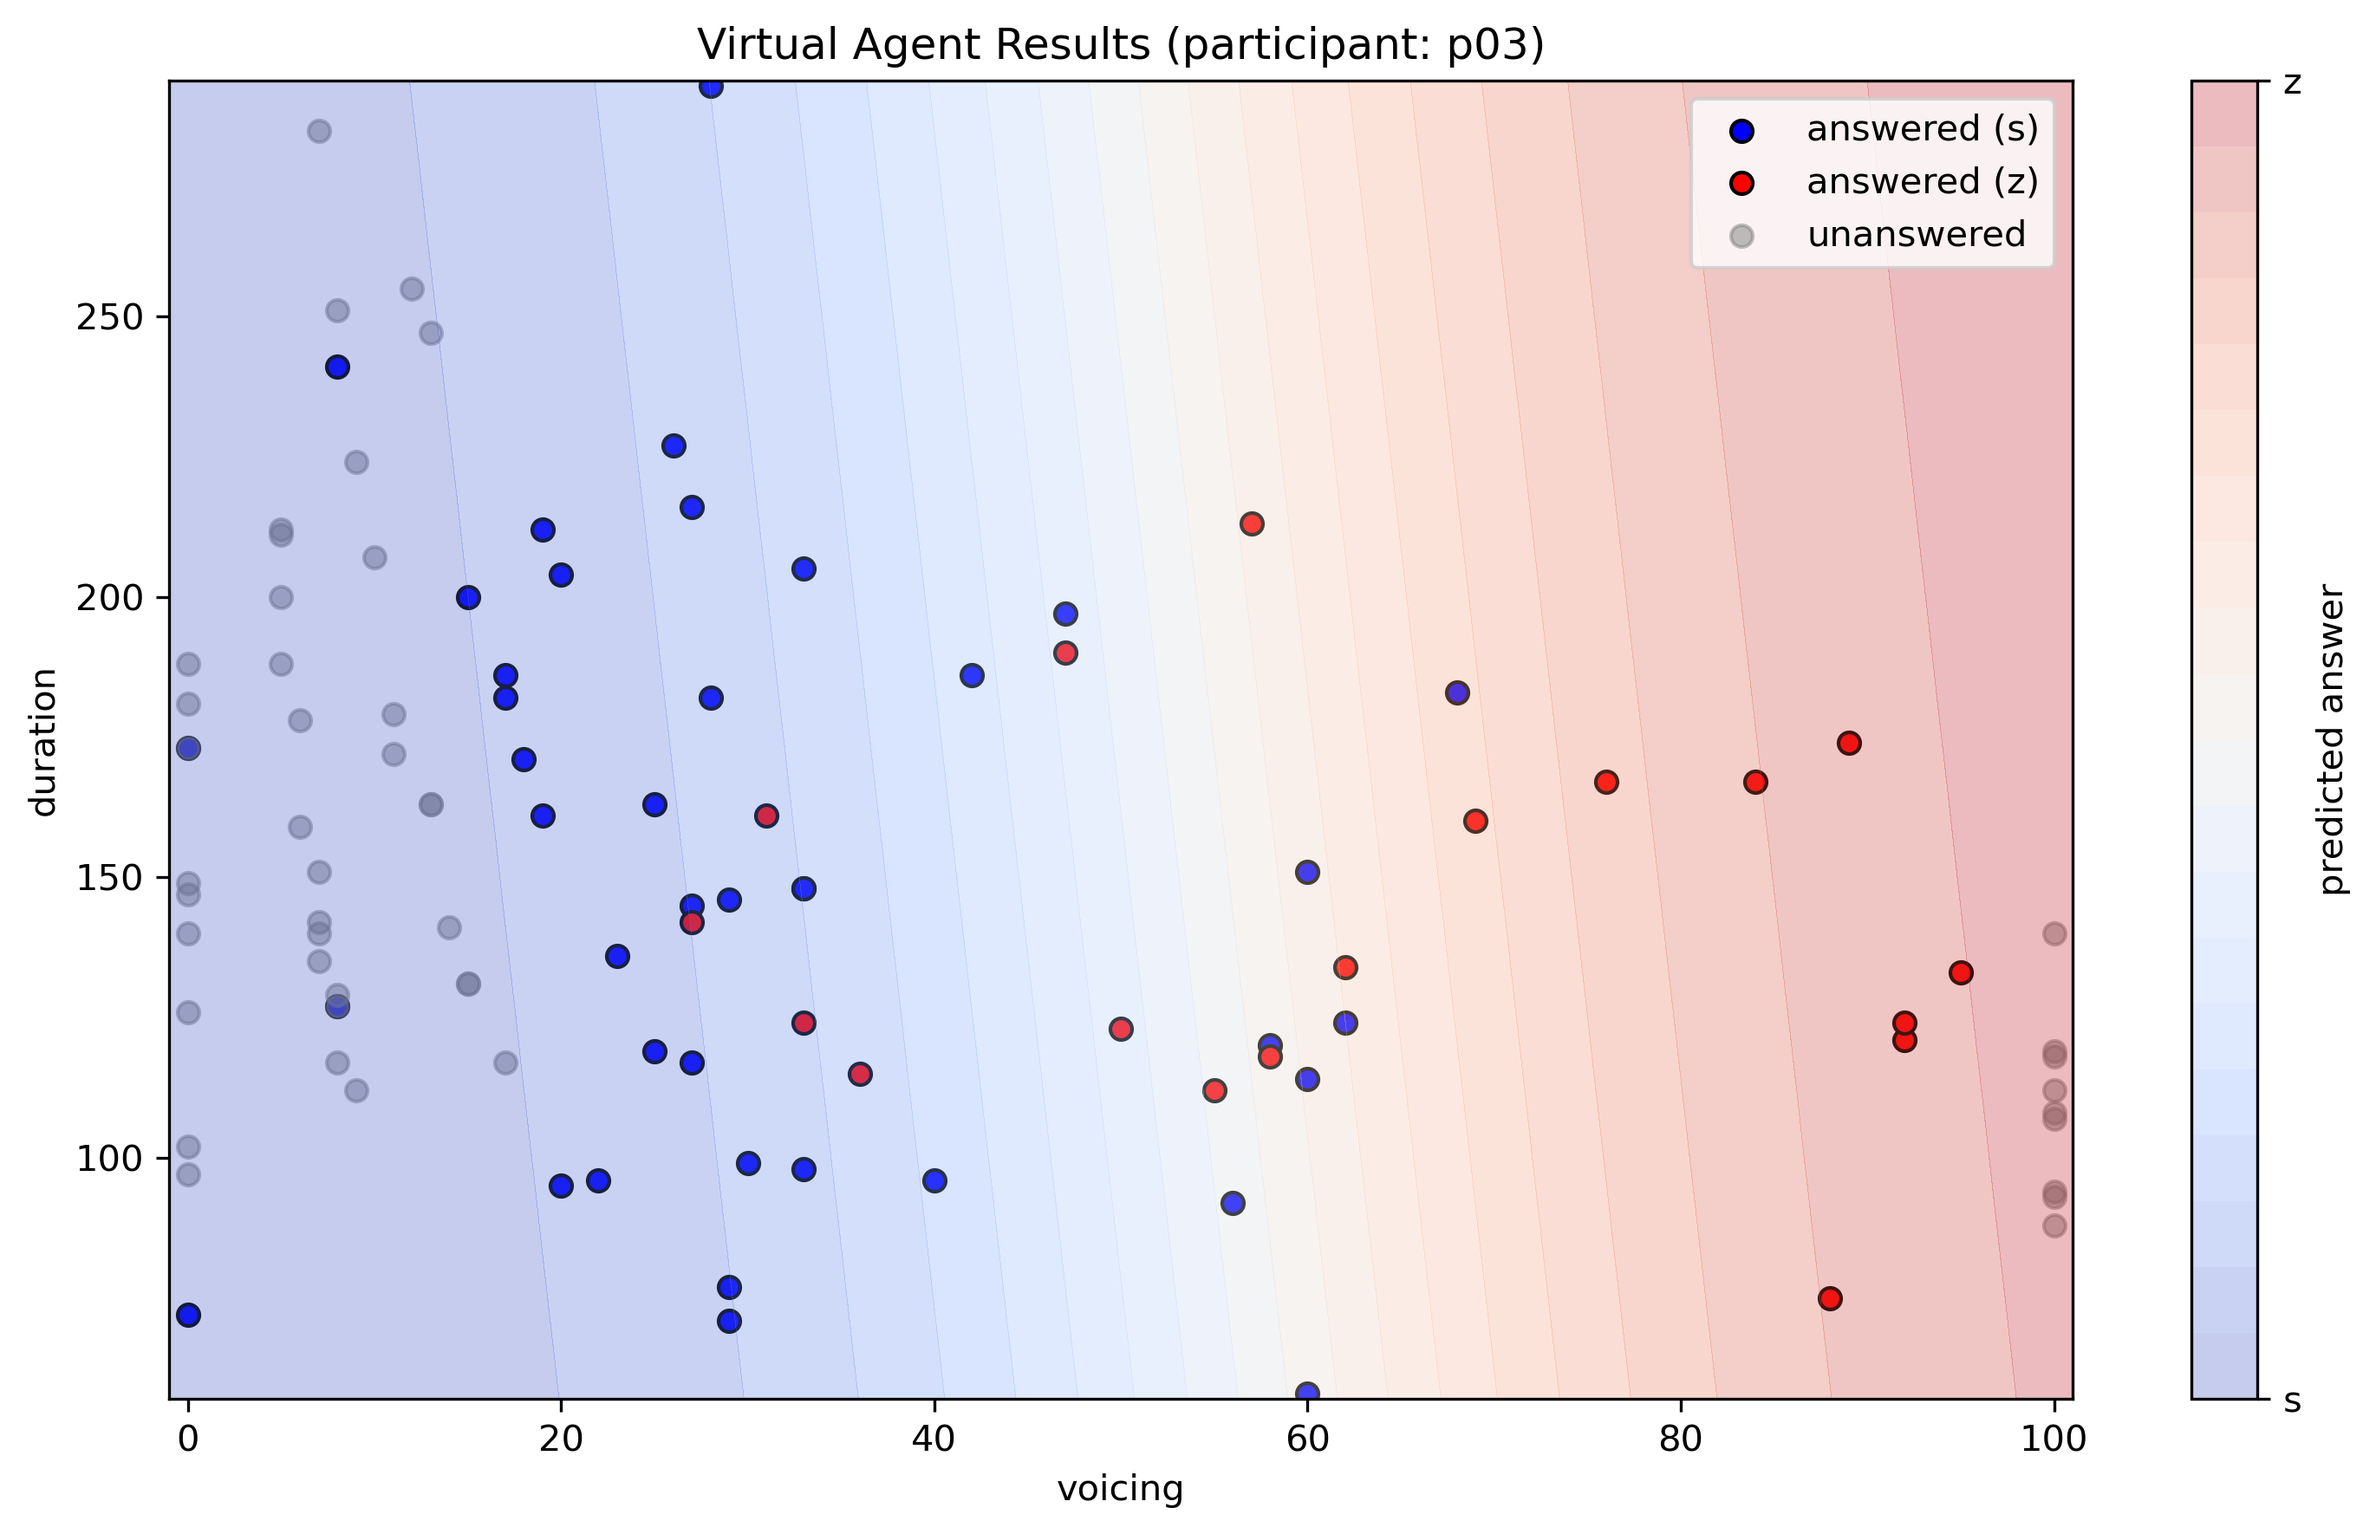
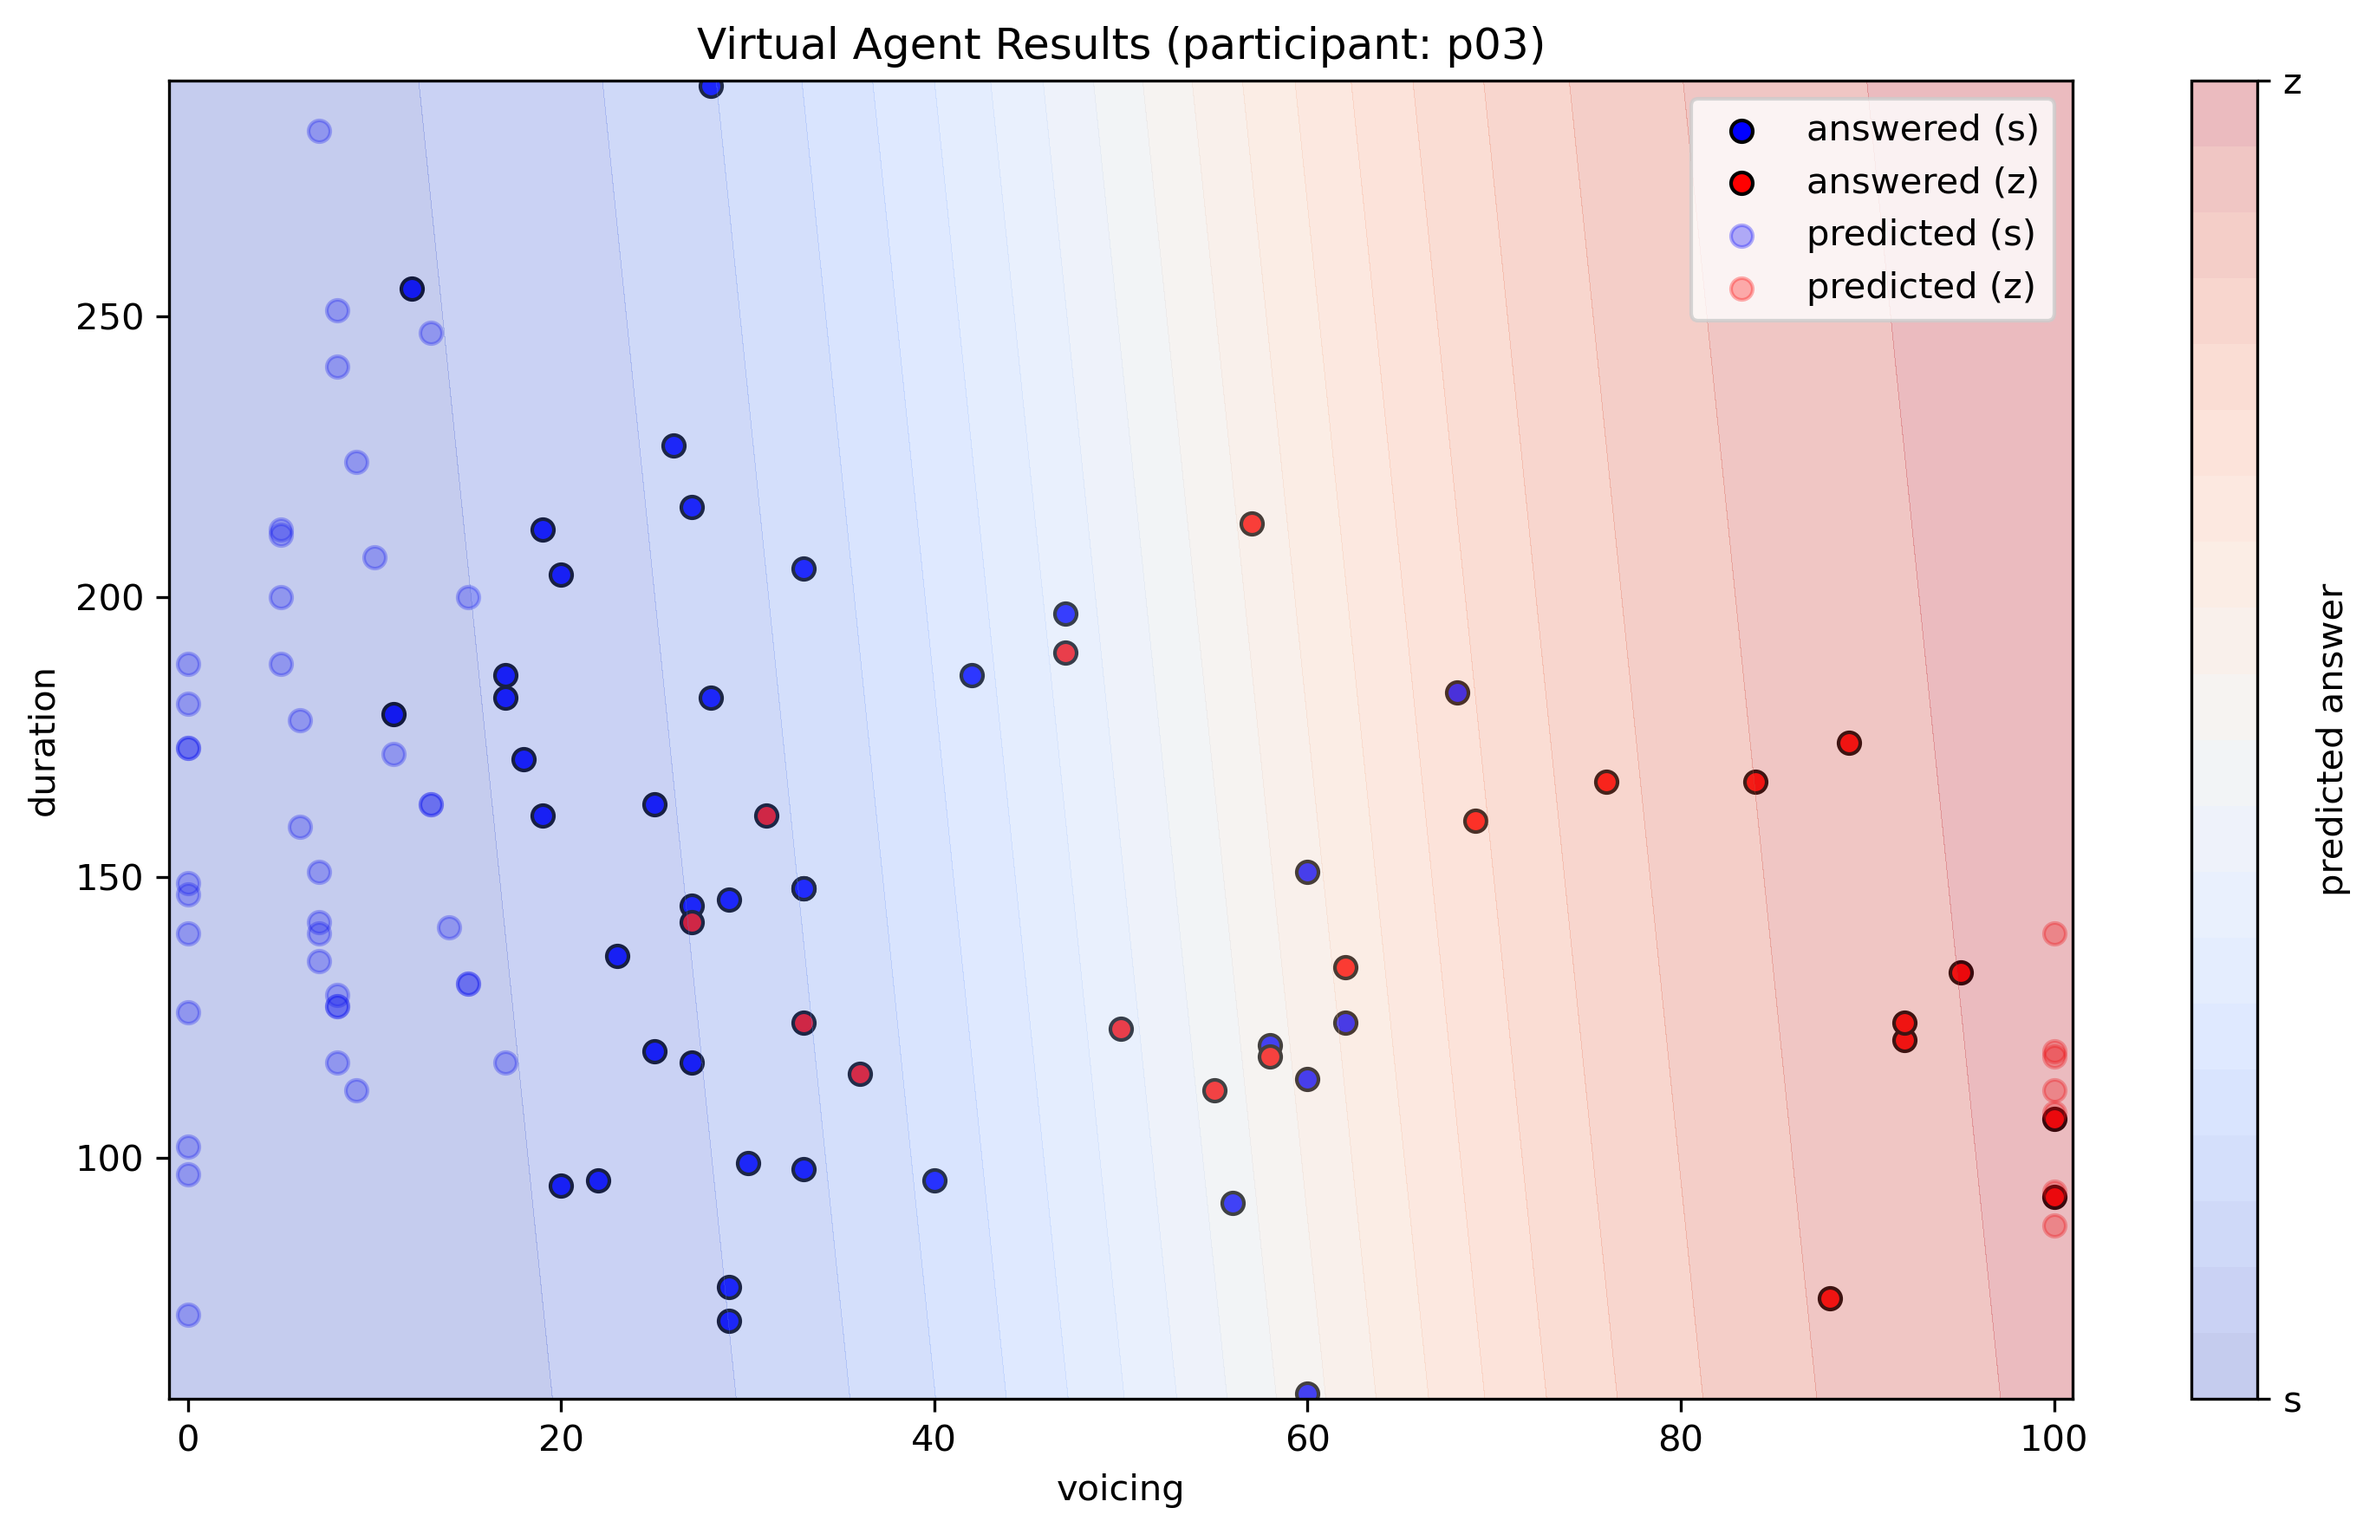
Update README with new example image and scenario

diff --git a/README.md b/README.md
@@ -23,7 +23,7 @@ MODEL_CERTAINTY_CUTOFF = 0.95 # stopping certainty threshold
 PARTICIPANT_TO_MODEL = 'p03'  # participant ID to simulate
 ```
 
-The oracle (virtual agent) classified 58 stimuli out of 104. The remaining 46 were classified by the model with a 97.8% accuracy. This specific case would, with a human participant, translate to reducing the participant workload by over 44% while while still producing data that is nearly as reliable as if the participant had answered every item themselves—with an effective overall accuracy of over 99%.
+The oracle (virtual agent) classified 57 stimuli out of 104. The remaining 47 were classified by the model with a 97.9% accuracy. This specific case would, with a human participant, translate to reducing the participant workload by about 45% while still producing data that is nearly as reliable as if the participant had answered every item themselves—with an effective overall accuracy of over 99%.
 
 Of course, this is an exceptionally good scenario; the model's efficiency can be impacted by the research question and especially the participant's predictability (the less consistent the participant is in in their answers, the more difficult it is to model them in the first place).
 
